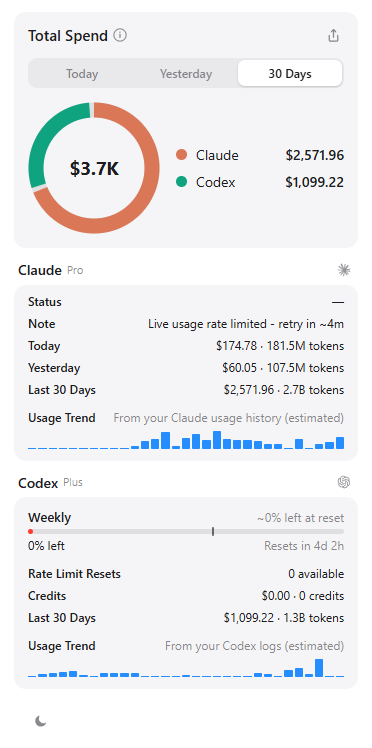
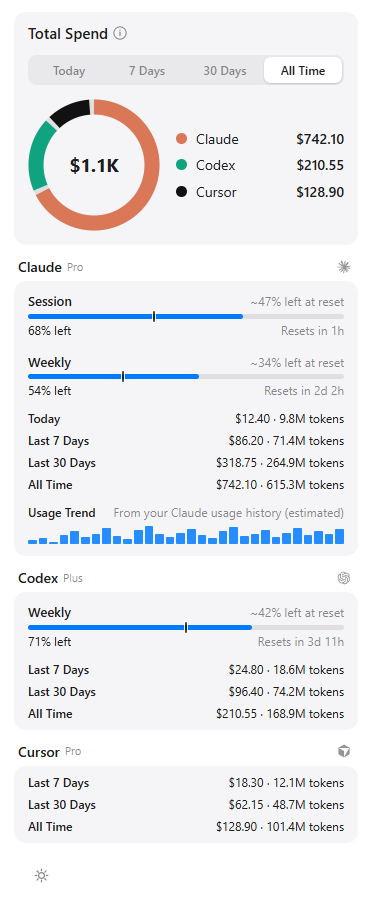
Use sample data for the README screenshots, and fix the segmented-control thumb
The docs previously showed real usage — including maxed-out 0% bars and actual spend
figures — which both looked bad and published personal numbers. Screenshots are now
generated from the page's built-in demo payload via a new `--shots` mode (light and
dark), and the strip images from a sample payload via `--striptest <file.json>`. The
demo meters are tuned to sit behind pace so the bars read healthy rather than warning.

Two real bugs surfaced while generating them:

- The segmented-control thumb measured the control before layout settled (235px
  instead of 316px), so it was sized and positioned for the wrong width and sat under
  the wrong label. A ResizeObserver now re-places it whenever the control's width
  changes.
- The period buttons showed a focus ring after being clicked. Suppressed — the thumb
  already indicates the selection.

diff --git a/tray/web/index.html b/tray/web/index.html
@@ -72,6 +72,8 @@ html,body{background:var(--tray);color:var(--text);font-family:var(--font);
 .seg button{position:relative;z-index:1;flex:1;border:0;background:transparent;font-family:inherit;font-size:12px;
   font-weight:600;color:var(--text2);padding:5px 0;border-radius:7px;cursor:default;transition:color .22s ease}
 .seg button.on{color:var(--text)}
+/* No focus ring — this is an app popover, not a form; the thumb already shows the selection. */
+.seg button:focus, .seg button:focus-visible{outline:none}
 
 .donut-wrap{display:flex;align-items:center;gap:16px}
 .donut{position:relative;width:132px;height:132px;flex:0 0 auto}
@@ -389,6 +391,11 @@ function spendCard(providers){
   attachSegDrag();
   updateSpendBody(false);
   requestAnimationFrame(()=>positionThumb(PERIODS.indexOf(spendPeriod), false));
+  // The first rAF can measure the segment before layout settles (fonts/scrollbar), which left the
+  // thumb sized and positioned for the wrong width. Re-place it whenever the segment's width changes.
+  if(window.ResizeObserver){
+    new ResizeObserver(()=>positionThumb(PERIODS.indexOf(spendPeriod), false)).observe(seg);
+  }
   return card;
 }
 
@@ -533,25 +540,31 @@ window.renderData = function(payload){
 };
 
 /* ---------- standalone preview sample (ignored when the tray injects real data) ---------- */
+// Demo payload used when the page is opened directly (and for the README screenshots). Numbers are
+// illustrative, and the meters are set to sit roughly ON pace so the even-pace marker reads naturally.
 const SAMPLE=[{"displayName":"Claude","plan":"Pro","providerId":"claude","fetchedAt":new Date().toISOString(),"lines":[
- {"label":"Session","type":"progress","used":0,"limit":100,"format":{"kind":"percent"},"resetsAt":new Date(Date.now()+5*3600e3).toISOString(),"periodDurationMs":18000000},
- {"label":"Weekly","type":"progress","used":64,"limit":100,"format":{"kind":"percent"},"resetsAt":new Date(Date.now()+30*3600e3).toISOString(),"periodDurationMs":604800000},
- {"label":"Fable","type":"progress","used":73,"limit":100,"format":{"kind":"percent"},"resetsAt":new Date(Date.now()+30*3600e3).toISOString(),"periodDurationMs":604800000},
- {"label":"Today","type":"text","value":"$49.85 · 35.8M tokens"},
- {"label":"Yesterday","type":"text","value":"$1.31 · 738.5K tokens"},
- {"label":"Last 30 Days","type":"text","value":"$6,042.64 · 2.6B tokens"}
-]},
-{"displayName":"Cursor","plan":"Pro","providerId":"cursor","fetchedAt":new Date().toISOString(),"lines":[
- {"label":"Last 30 Days","type":"text","value":"$7,121.12 · 1.2B tokens"}
+ {"label":"Session","type":"progress","used":32,"limit":100,"format":{"kind":"percent"},"resetsAt":new Date(Date.now()+2*3600e3).toISOString(),"periodDurationMs":18000000},
+ {"label":"Weekly","type":"progress","used":46,"limit":100,"format":{"kind":"percent"},"resetsAt":new Date(Date.now()+2.1*24*3600e3).toISOString(),"periodDurationMs":604800000},
+ {"label":"Today","type":"text","value":"$12.40 · 9.8M tokens"},
+ {"label":"Last 7 Days","type":"text","value":"$86.20 · 71.4M tokens"},
+ {"label":"Last 30 Days","type":"text","value":"$318.75 · 264.9M tokens"},
+ {"label":"All Time","type":"text","value":"$742.10 · 615.3M tokens"},
+ {"label":"Usage Trend","type":"barChart","note":"From your Claude usage history (estimated)",
+  "points":[3,5,2,8,11,6,9,14,7,4,12,16,9,6,10,13,8,5,11,15,7,9,12,6,10,14,8,11,9,13]
+    .map((v,i)=>({label:"d"+i,value:v*1e6,valueLabel:(v)+"M tokens"}))}
 ]},
 {"displayName":"Codex","plan":"Plus","providerId":"codex","fetchedAt":new Date().toISOString(),"lines":[
- {"label":"Last 30 Days","type":"text","value":"$134.46 · 90M tokens"}
+ {"label":"Weekly","type":"progress","used":29,"limit":100,"format":{"kind":"percent"},"resetsAt":new Date(Date.now()+3.5*24*3600e3).toISOString(),"periodDurationMs":604800000},
+ {"label":"Last 7 Days","type":"text","value":"$24.80 · 18.6M tokens"},
+ {"label":"Last 30 Days","type":"text","value":"$96.40 · 74.2M tokens"},
+ {"label":"All Time","type":"text","value":"$210.55 · 168.9M tokens"}
 ]},
-{"displayName":"Grok","plan":"SuperGrok","providerId":"grok","fetchedAt":new Date().toISOString(),"lines":[
- {"label":"Last 30 Days","type":"text","value":"$71.02 · 40M tokens"}
+{"displayName":"Cursor","plan":"Pro","providerId":"cursor","fetchedAt":new Date().toISOString(),"lines":[
+ {"label":"Last 7 Days","type":"text","value":"$18.30 · 12.1M tokens"},
+ {"label":"Last 30 Days","type":"text","value":"$62.15 · 48.7M tokens"},
+ {"label":"All Time","type":"text","value":"$128.90 · 101.4M tokens"}
 ]}];
-const SAMPLE_ERRORS=[{"providerId":"codex","displayName":"Codex","message":"Token revoked. Run `codex` to log in again."}];
-if(!window.__NO_SAMPLE__) renderApp(SAMPLE, SAMPLE_ERRORS);
+if(!window.__NO_SAMPLE__) renderApp(SAMPLE, []);
 </script>
 </body>
 </html>

diff --git a/tray/Program.cs b/tray/Program.cs
@@ -31,10 +31,25 @@ static class Program
             return;
         }
 
+        // Render the built-in demo payload to PNGs for the README (light + dark), so the docs never
+        // show anyone's real usage numbers.
+        if (args.Contains("--shots"))
+        {
+            var shots = new PopoverForm(sampleShots: true);
+            Application.Run();
+            GC.KeepAlive(shots);
+            return;
+        }
+
         if (args.Contains("--striptest"))
         {
             var strip = new StripForm { IsDark = () => true };
-            strip.SetData(Cli.Fetch(force: false));
+            // `--striptest <file.json>` renders a supplied payload instead of a live read (used for docs).
+            int at = Array.IndexOf(args, "--striptest");
+            string stripJson = (at >= 0 && at + 1 < args.Length && File.Exists(args[at + 1]))
+                ? File.ReadAllText(args[at + 1])
+                : Cli.Fetch(force: false);
+            strip.SetData(stripJson);
             strip.RenderToFile(Path.Combine(Path.GetTempPath(), "openusage_striptest_usage.png"), showPrice: false);
             strip.RenderToFile(Path.Combine(Path.GetTempPath(), "openusage_striptest_price.png"), showPrice: true);
             return;
@@ -188,9 +203,12 @@ sealed class PopoverForm : Form
     private const int MaxHeight = 2000;
     private const int Margin_ = 12;
 
-    public PopoverForm(bool selfTest = false)
+    private readonly bool _sampleShots;
+
+    public PopoverForm(bool selfTest = false, bool sampleShots = false)
     {
         _selfTest = selfTest;
+        _sampleShots = sampleShots;
         FormBorderStyle = FormBorderStyle.None;
         ShowInTaskbar = false;
         StartPosition = FormStartPosition.Manual;
@@ -245,7 +263,9 @@ sealed class PopoverForm : Form
         ApplyBackdrop(ThemeProvider?.Invoke() ?? "light");
 
         // Skip the file's built-in sample payload; the host injects the real data.
-        await core.AddScriptToExecuteOnDocumentCreatedAsync("window.__NO_SAMPLE__ = true;");
+        // In shots mode let the page render its own demo payload instead of suppressing it.
+        if (!_sampleShots)
+            await core.AddScriptToExecuteOnDocumentCreatedAsync("window.__NO_SAMPLE__ = true;");
 
         // Serve the web/ folder over a virtual host so the SVG icon masks resolve cleanly.
         var webDir = Path.Combine(AppContext.BaseDirectory, "web");
@@ -259,6 +279,7 @@ sealed class PopoverForm : Form
             // Apply the host's persisted theme so the strip menu and the popover always agree.
             var theme = ThemeProvider?.Invoke() ?? "light";
             try { await core.ExecuteScriptAsync($"window.setTheme && window.setTheme('{theme}')"); } catch { }
+            if (_sampleShots) { await CaptureSampleShots(); return; }
             if (_selfTest) { ShowPopover(); return; }
             if (_pendingShow) { _pendingShow = false; Inject(_data); }
         };
@@ -377,6 +398,35 @@ sealed class PopoverForm : Form
     {
         _data = string.IsNullOrWhiteSpace(json) ? "[]" : json;
         if (_ready && Visible) Inject(_data);
+    }
+
+    /// Render the page's built-in demo payload to light + dark PNGs for the README, sized to the full
+    /// content so nothing is cut off. Never touches real provider data.
+    private async Task CaptureSampleShots()
+    {
+        var core = _web.CoreWebView2;
+        var outDir = Path.Combine(AppContext.BaseDirectory, "shots");
+        Directory.CreateDirectory(outDir);
+
+        async Task Shot(string theme, string file)
+        {
+            await core.ExecuteScriptAsync($"window.setTheme && window.setTheme('{theme}')");
+            await Task.Delay(500);                                  // let the theme + layout settle
+            var h = await core.ExecuteScriptAsync("document.body.scrollHeight");
+            int height = int.TryParse(h?.Trim('"'), out var v) ? v : 900;
+            _finalBounds = new Rectangle(0, 0, Width_, height);
+            _web.Size = new Size(Width_, height);
+            base.SetBounds(0, 0, Width_, height, BoundsSpecified.All);
+            _web.Location = new Point(0, 0);
+            await Task.Delay(600);                                  // let entrance animations finish
+            using var fs = File.Create(Path.Combine(outDir, file));
+            await core.CapturePreviewAsync(CoreWebView2CapturePreviewImageFormat.Png, fs);
+        }
+
+        Show();
+        await Shot("light", "popover.png");
+        await Shot("dark", "popover-dark.png");
+        Application.Exit();
     }
 
     /// Replay the spring-open animation inside the page each time the popover is shown.

diff --git a/README.md b/README.md
@@ -8,8 +8,11 @@ provider engine and recreates the experience with a **taskbar strip + popover** 
 like the Mac original.
 
 <p align="center">
-  <img src="tray/screenshots/popover.png" alt="OpenUsage popover on Windows showing Total Spend donut, Claude and Codex usage" width="360">
+  <img src="tray/screenshots/popover.png" alt="OpenUsage popover showing the Total Spend donut and per-provider usage" width="330">
+  &nbsp;
+  <img src="tray/screenshots/popover-dark.png" alt="The same popover in dark mode" width="330">
 </p>
+<p align="center"><sub>Light and dark. Screenshots use sample data.</sub></p>
 
 The metrics live right on your taskbar and rotate between **usage** and **API‑price spend**:
 